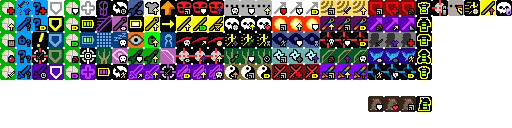
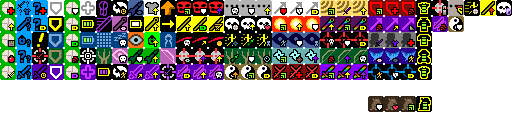
1.4: implemented new talents for duelist's subclasses

Changed region(s): [[0.8438, 0.125, 0.9062, 0.25]]

diff --git a/core/src/main/java/com/shatteredpixel/shatteredpixeldungeon/actors/buffs/MonkEnergy.java b/core/src/main/java/com/shatteredpixel/shatteredpixeldungeon/actors/buffs/MonkEnergy.java
@@ -336,6 +336,12 @@ public class MonkEnergy extends Buff implements ActionIndicator.Action {
 									if (hero.buff(FlurryEmpowerTracker.class) != null){
 										hero.buff(FlurryEmpowerTracker.class).detach();
 									}
+									if (!enemy.isAlive()){
+										if (hero.hasTalent(Talent.ABILITY_PROTECTION)){
+											Buff.affect(hero, Barrier.class).setShield(
+													Math.round(hero.HT * (hero.pointsInTalent(Talent.ABILITY_PROTECTION) / 7f)));
+										}
+									}
 								}
 							});
 						} else {
@@ -348,6 +354,10 @@ public class MonkEnergy extends Buff implements ActionIndicator.Action {
 							}
 							if (hero.buff(FlurryEmpowerTracker.class) != null){
 								hero.buff(FlurryEmpowerTracker.class).detach();
+							}
+							if (hero.hasTalent(Talent.ABILITY_PROTECTION)){
+								Buff.affect(hero, Barrier.class).setShield(
+										Math.round(hero.HT * (hero.pointsInTalent(Talent.ABILITY_PROTECTION) / 7f)));
 							}
 						}
 					}
@@ -528,6 +538,11 @@ public class MonkEnergy extends Buff implements ActionIndicator.Action {
 
 							if (trajectory.dist > 0) {
 								Buff.affect(enemy, Paralysis.class, Math.min( 6, trajectory.dist));
+							}
+						} else {
+							if (hero.hasTalent(Talent.ABILITY_PROTECTION)){
+								Buff.affect(hero, Barrier.class).setShield(
+										Math.round(hero.HT * (hero.pointsInTalent(Talent.ABILITY_PROTECTION) / 7f)));
 							}
 						}
 						Invisibility.dispel();

diff --git a/core/src/main/java/com/shatteredpixel/shatteredpixeldungeon/actors/hero/Talent.java b/core/src/main/java/com/shatteredpixel/shatteredpixeldungeon/actors/hero/Talent.java
@@ -146,9 +146,9 @@ public enum Talent {
 	//Duelist T3
 	LIGHTWEIGHT_CHARGE(137, 3), DEADLY_FOLLOWUP(138, 3),
 	//Champion T3
-	SECONDARY_CHARGE(139, 3), TWIN_UPGRADES(140, 3), COMBINED_LETHALITY(141, 3),
+	SECONDARY_CHARGE(139, 3), TWIN_UPGRADES(140, 3), COMBINED_LETHALITY(141, 3), SWINGY_EXPERIENCE(59, 3),
 	//Monk T3
-	UNENCUMBERED_SPIRIT(142, 3), MONASTIC_VIGOR(143, 3), COMBINED_ENERGY(144, 3),
+	UNENCUMBERED_SPIRIT(142, 3), MONASTIC_VIGOR(143, 3), COMBINED_ENERGY(144, 3), ABILITY_PROTECTION(60, 3),
 	//Challenge T4
 	CLOSE_THE_GAP(145, 4), INVIGORATING_VICTORY(146, 4), ELIMINATION_MATCH(147, 4),
 	//Elemental Strike T4
@@ -945,10 +945,10 @@ public enum Talent {
 				Collections.addAll(tierTalents, FARSIGHT, SHARED_ENCHANTMENT, SHARED_UPGRADES, AUTO_RELOAD);
 				break;
 			case CHAMPION:
-				Collections.addAll(tierTalents, SECONDARY_CHARGE, TWIN_UPGRADES, COMBINED_LETHALITY);
+				Collections.addAll(tierTalents, SECONDARY_CHARGE, TWIN_UPGRADES, COMBINED_LETHALITY, SWINGY_EXPERIENCE);
 				break;
 			case MONK:
-				Collections.addAll(tierTalents, UNENCUMBERED_SPIRIT, MONASTIC_VIGOR, COMBINED_ENERGY);
+				Collections.addAll(tierTalents, UNENCUMBERED_SPIRIT, MONASTIC_VIGOR, COMBINED_ENERGY, ABILITY_PROTECTION);
 				break;
 		}
 		for (Talent talent : tierTalents){

diff --git a/core/src/main/java/com/shatteredpixel/shatteredpixeldungeon/actors/hero/Hero.java b/core/src/main/java/com/shatteredpixel/shatteredpixeldungeon/actors/hero/Hero.java
@@ -630,6 +630,10 @@ public class Hero extends Char {
 	
 	public float attackDelay() {
 		float del = super.attackDelay();
+		if (hasTalent(Talent.SWINGY_EXPERIENCE) &&
+			Random.Int(6) < pointsInTalent(Talent.SWINGY_EXPERIENCE)-1){
+			return 0;
+		}
 		if (buff(Talent.LethalMomentumTracker.class) != null){
 			buff(Talent.LethalMomentumTracker.class).detach();
 			return 0;
